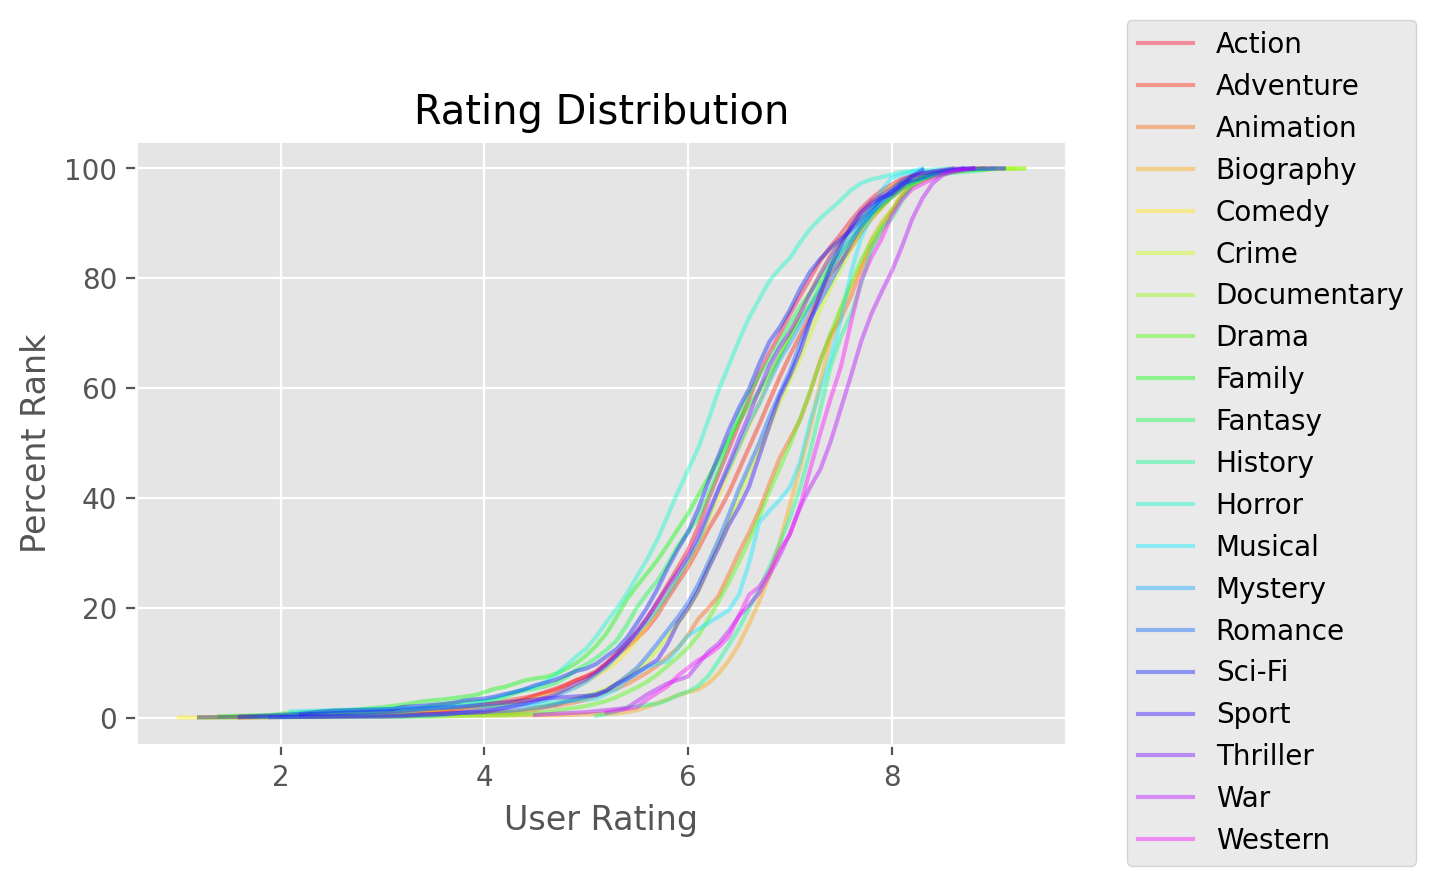
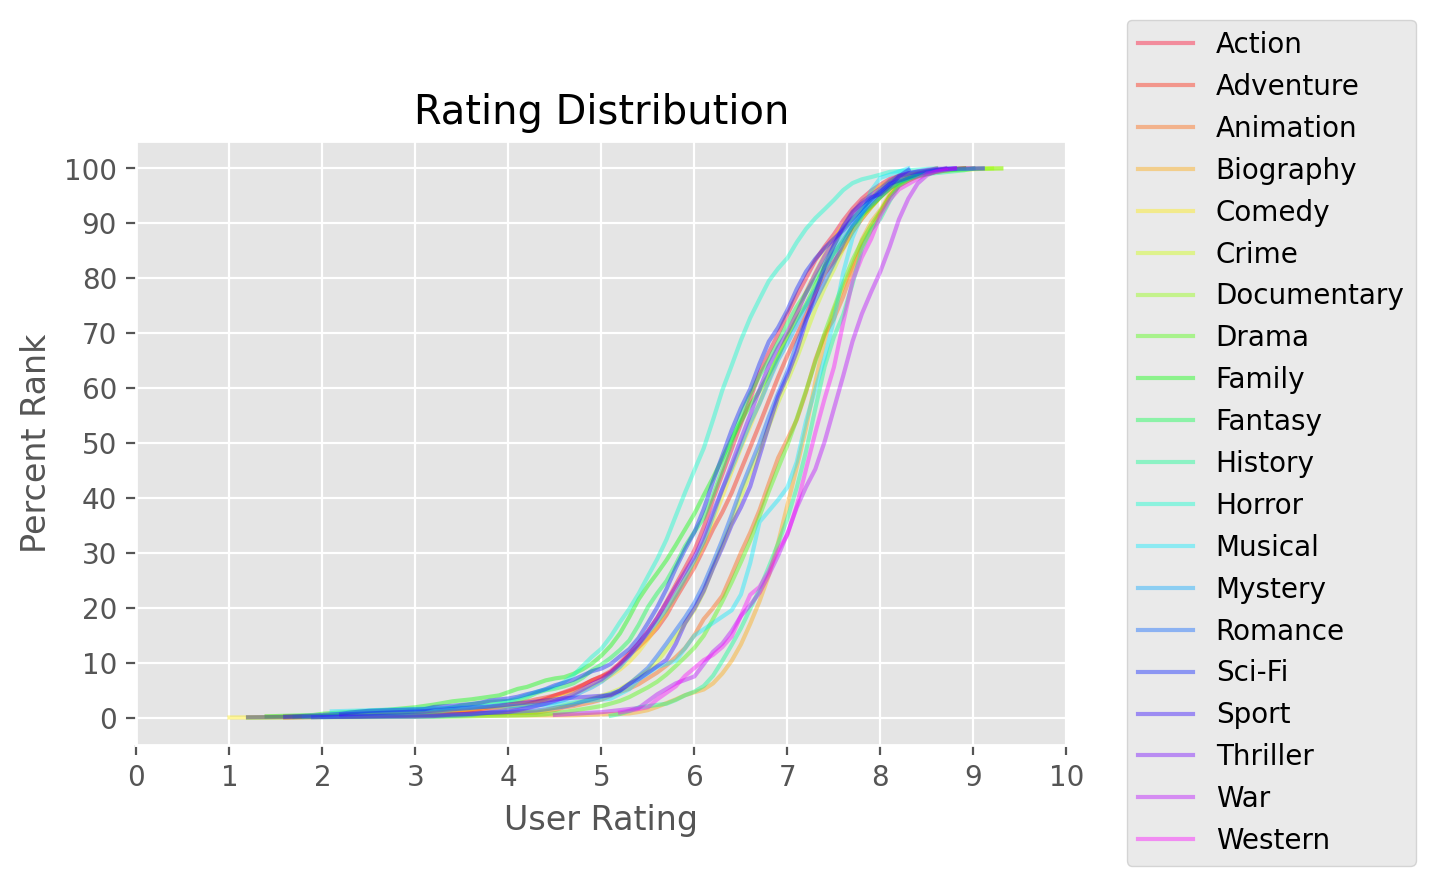
modified plot

diff --git a/rating_plots.py b/rating_plots.py
@@ -83,8 +83,10 @@ for genre in genres:
         plt.legend(loc='center left', bbox_to_anchor=(1.05, 0.5))
         plt.ylabel('Percent Rank')
         plt.xlabel('User Rating')
+        plt.xticks(np.arange(0, 11, 1))
+        plt.yticks(np.arange(0, 101, 10))
         plt.title('Rating Distribution')
-        plt.savefig('rating_distribution.png', dpi=600, bbox_inches='tight')
+        plt.savefig('rating_distribution.png', dpi=200, bbox_inches='tight')
 
 
 
